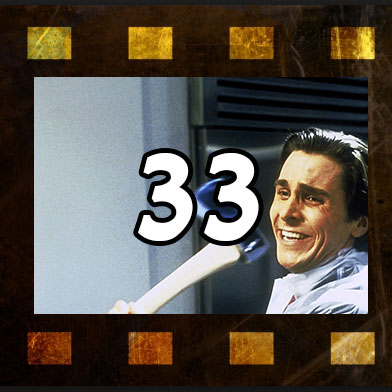
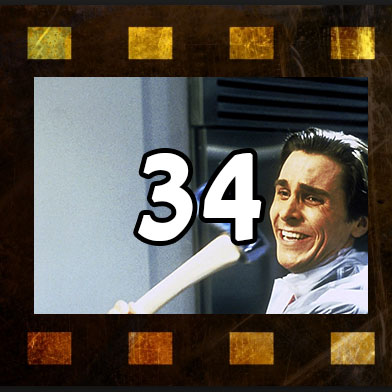
ep34

Changed region(s): [[0.4898, 0.3673, 0.6735, 0.6429]]

diff --git a/_posts/2017-12-23-american-psycho.md b/_posts/2017-12-23-american-psycho.md
@@ -1,30 +1,24 @@
 ---
-published: False
-date: 2017-12-09 11:00
+date: 2017-12-23 11:00
 layout: post
-title: פרק 32 - 2012 - לשחר שושן נגמרה הסוללה בסוף העולם
-movie: 2012
-imdb: tt1190080
-episode: 32
-ep-file: 7d63fe4f3c97ce06e7d3150302a77dff42741411.mp3
-episode-number: 32
+title: פרק 34 - אמריקן פסיכו - שלי שמורק חיה בצד האפל של מנהטן
+movie: American Psycho
+imdb: tt0144084
+episode: 34
+ep-file: eb66de429ea2cf591f47106247e761b6f774cf39.mp3
+episode-number: 34
 test-me : :title
-image : /assets/images/ep32.jpg
-cover : /assets/images/ep32-cover.jpg
-next-week: Wall-E (2008)
+image : /assets/images/ep34.jpg
+cover : /assets/images/ep34-cover.jpg
+next-week: Melancholia (2011)
 ---
 
-גלים בגובה קילומטר
+גופה מגולגלת בתוך שטיח, קיר מגואל בדם, ראש בתוך מקפיא. אלו רק מהדברים שמצאנו באולפן ההקלטה שלנו כשהקלטנו את הפרק על "אמריקן פסיכו".
 
-ערים קורסות
-
-הגזע האנושי עומד להכחד
-
-נפגשנו עם שחר שושן לדבר על סוף העולם, אמינות של סרטים, טכנולוגיה, ברירה גנטית, רוסים מוגזמים ומטוסי איליושין עם כוחות קסם
+שלי שורמק מגיעה אלינו מהפודקאסט בואי נדבר רצח, והיא לימדה אותנו המון על איך עובד מח של רוצח סדרתי.
 
 
-
-*דין עדיין חושב שזהר הוא לוח טקטוני*
+*דין עדיין לא בטוח אם זה זהר או פול אלן*
 
 
 
